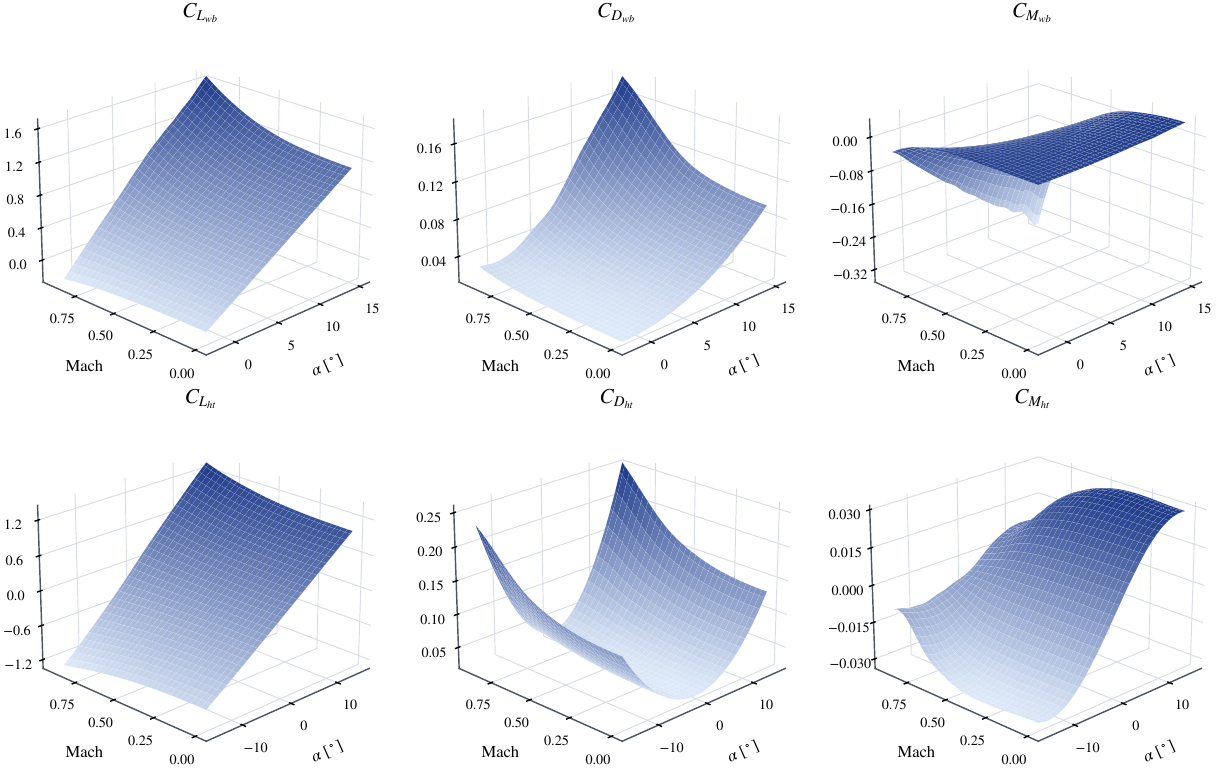
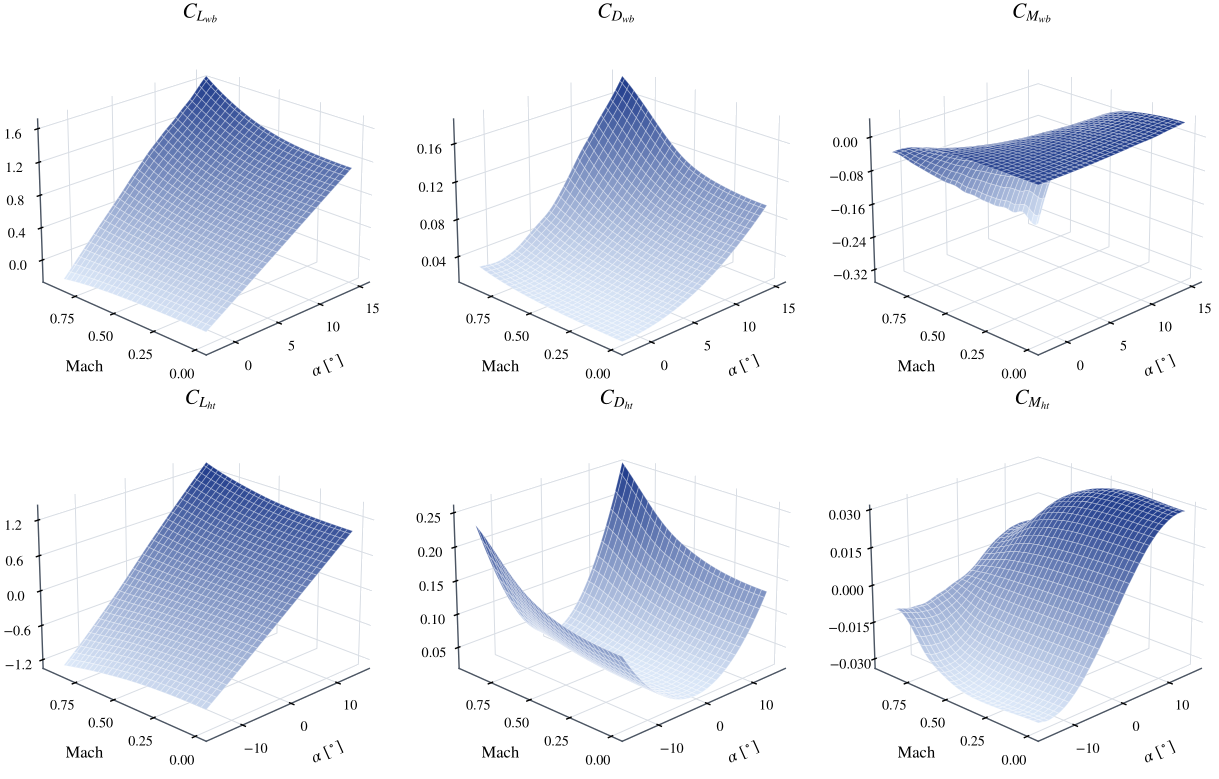
feat(app): présentation — ruban gauche masqué, étapes dans un volet de droite

diff --git a/app.py b/app.py
@@ -9,6 +9,7 @@ Lancement : streamlit run app.py
 """
 
 import os
+import re
 import json
 import base64
 from pathlib import Path
@@ -2617,14 +2618,32 @@ FIGDIR = Path(__file__).parent / "rapport" / "figures"
 FIG_VALEURS = FIGDIR / "valeurs.json"
 
 
+# Fonds opaques posés par matplotlib : le rectangle de la figure (toujours
+# patch_1) et celui des axes (premier patch de chaque <g id="axes_k">). On les
+# neutralise à l'affichage pour que la figure se pose sur le verre dépoli de sa
+# carte, comme les graphes Plotly des autres pages — le fichier du rapport, lui,
+# n'est pas touché. Les marqueurs blancs (points d'optima) portent un style
+# composé (fill + stroke) que ces motifs ne peuvent pas atteindre.
+_SVG_FOND_FIG = re.compile(r'(<g id="patch_1">\s*<path[^>]*?)style="fill: #ffffff"')
+_SVG_FOND_AXES = re.compile(
+    r'(<g id="axes_\d+">\s*<g id="patch_\d+">\s*<path[^>]*?)style="fill: #ffffff"')
+
+
 @st.cache_data
 def _fig_uri(nom, mtime):
-    """Figure encodée en data-URI (mtime → invalidé si make_figures.py la
-    régénère). Le passage par <img> isole chaque image : pas de collision entre
-    les identifiants de glyphes des <defs> des SVG matplotlib."""
+    """Figure encodée en data-URI, fond rendu transparent (mtime → invalidé si
+    make_figures.py la régénère). Le passage par <img> isole chaque image : pas
+    de collision entre les identifiants de glyphes des <defs> des SVG."""
     p = FIGDIR / nom
-    mime = "image/svg+xml" if p.suffix == ".svg" else "image/png"
-    return f"data:{mime};base64," + base64.b64encode(p.read_bytes()).decode()
+    if p.suffix == ".svg":
+        svg = _SVG_FOND_AXES.sub(r'\1style="fill: none"',
+                                 _SVG_FOND_FIG.sub(r'\1style="fill: none"',
+                                                   p.read_text(encoding="utf-8")))
+        donnees, mime = svg.encode("utf-8"), "image/svg+xml"
+    else:
+        # PNG déjà détourés à la génération (voir make_png.py)
+        donnees, mime = p.read_bytes(), "image/png"
+    return f"data:{mime};base64," + base64.b64encode(donnees).decode()
 
 
 def _fig_src(nom):
